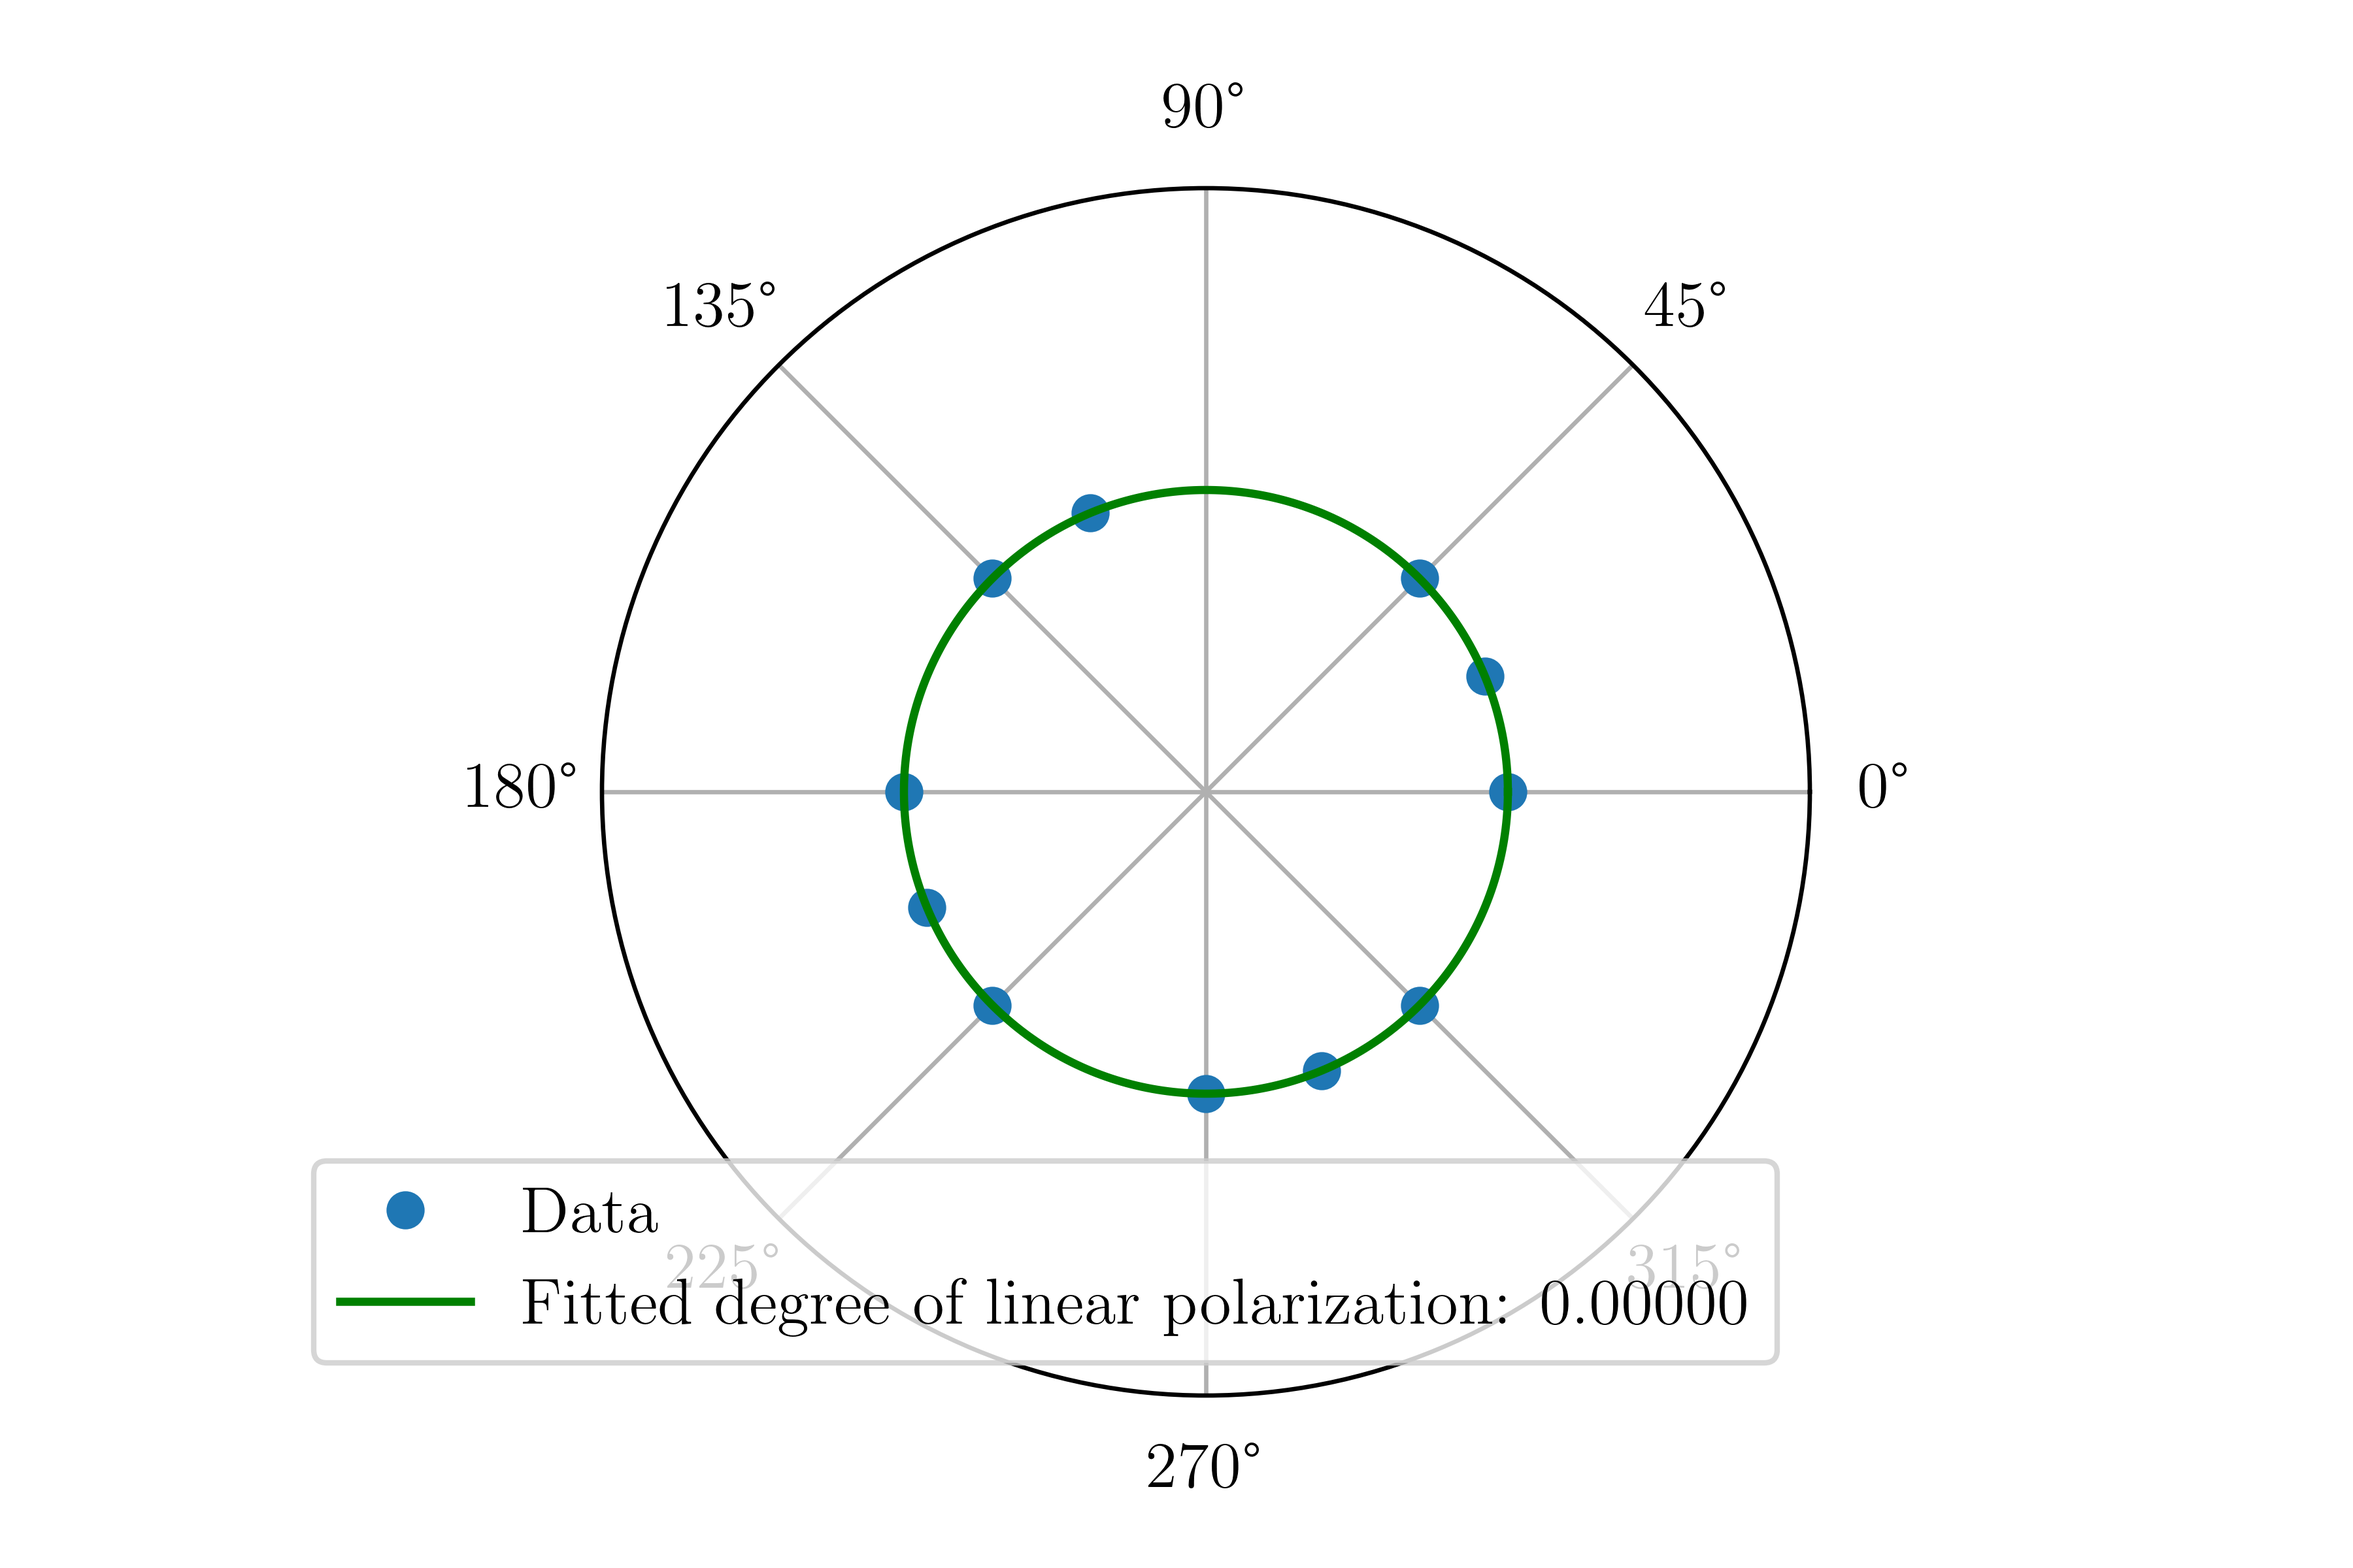
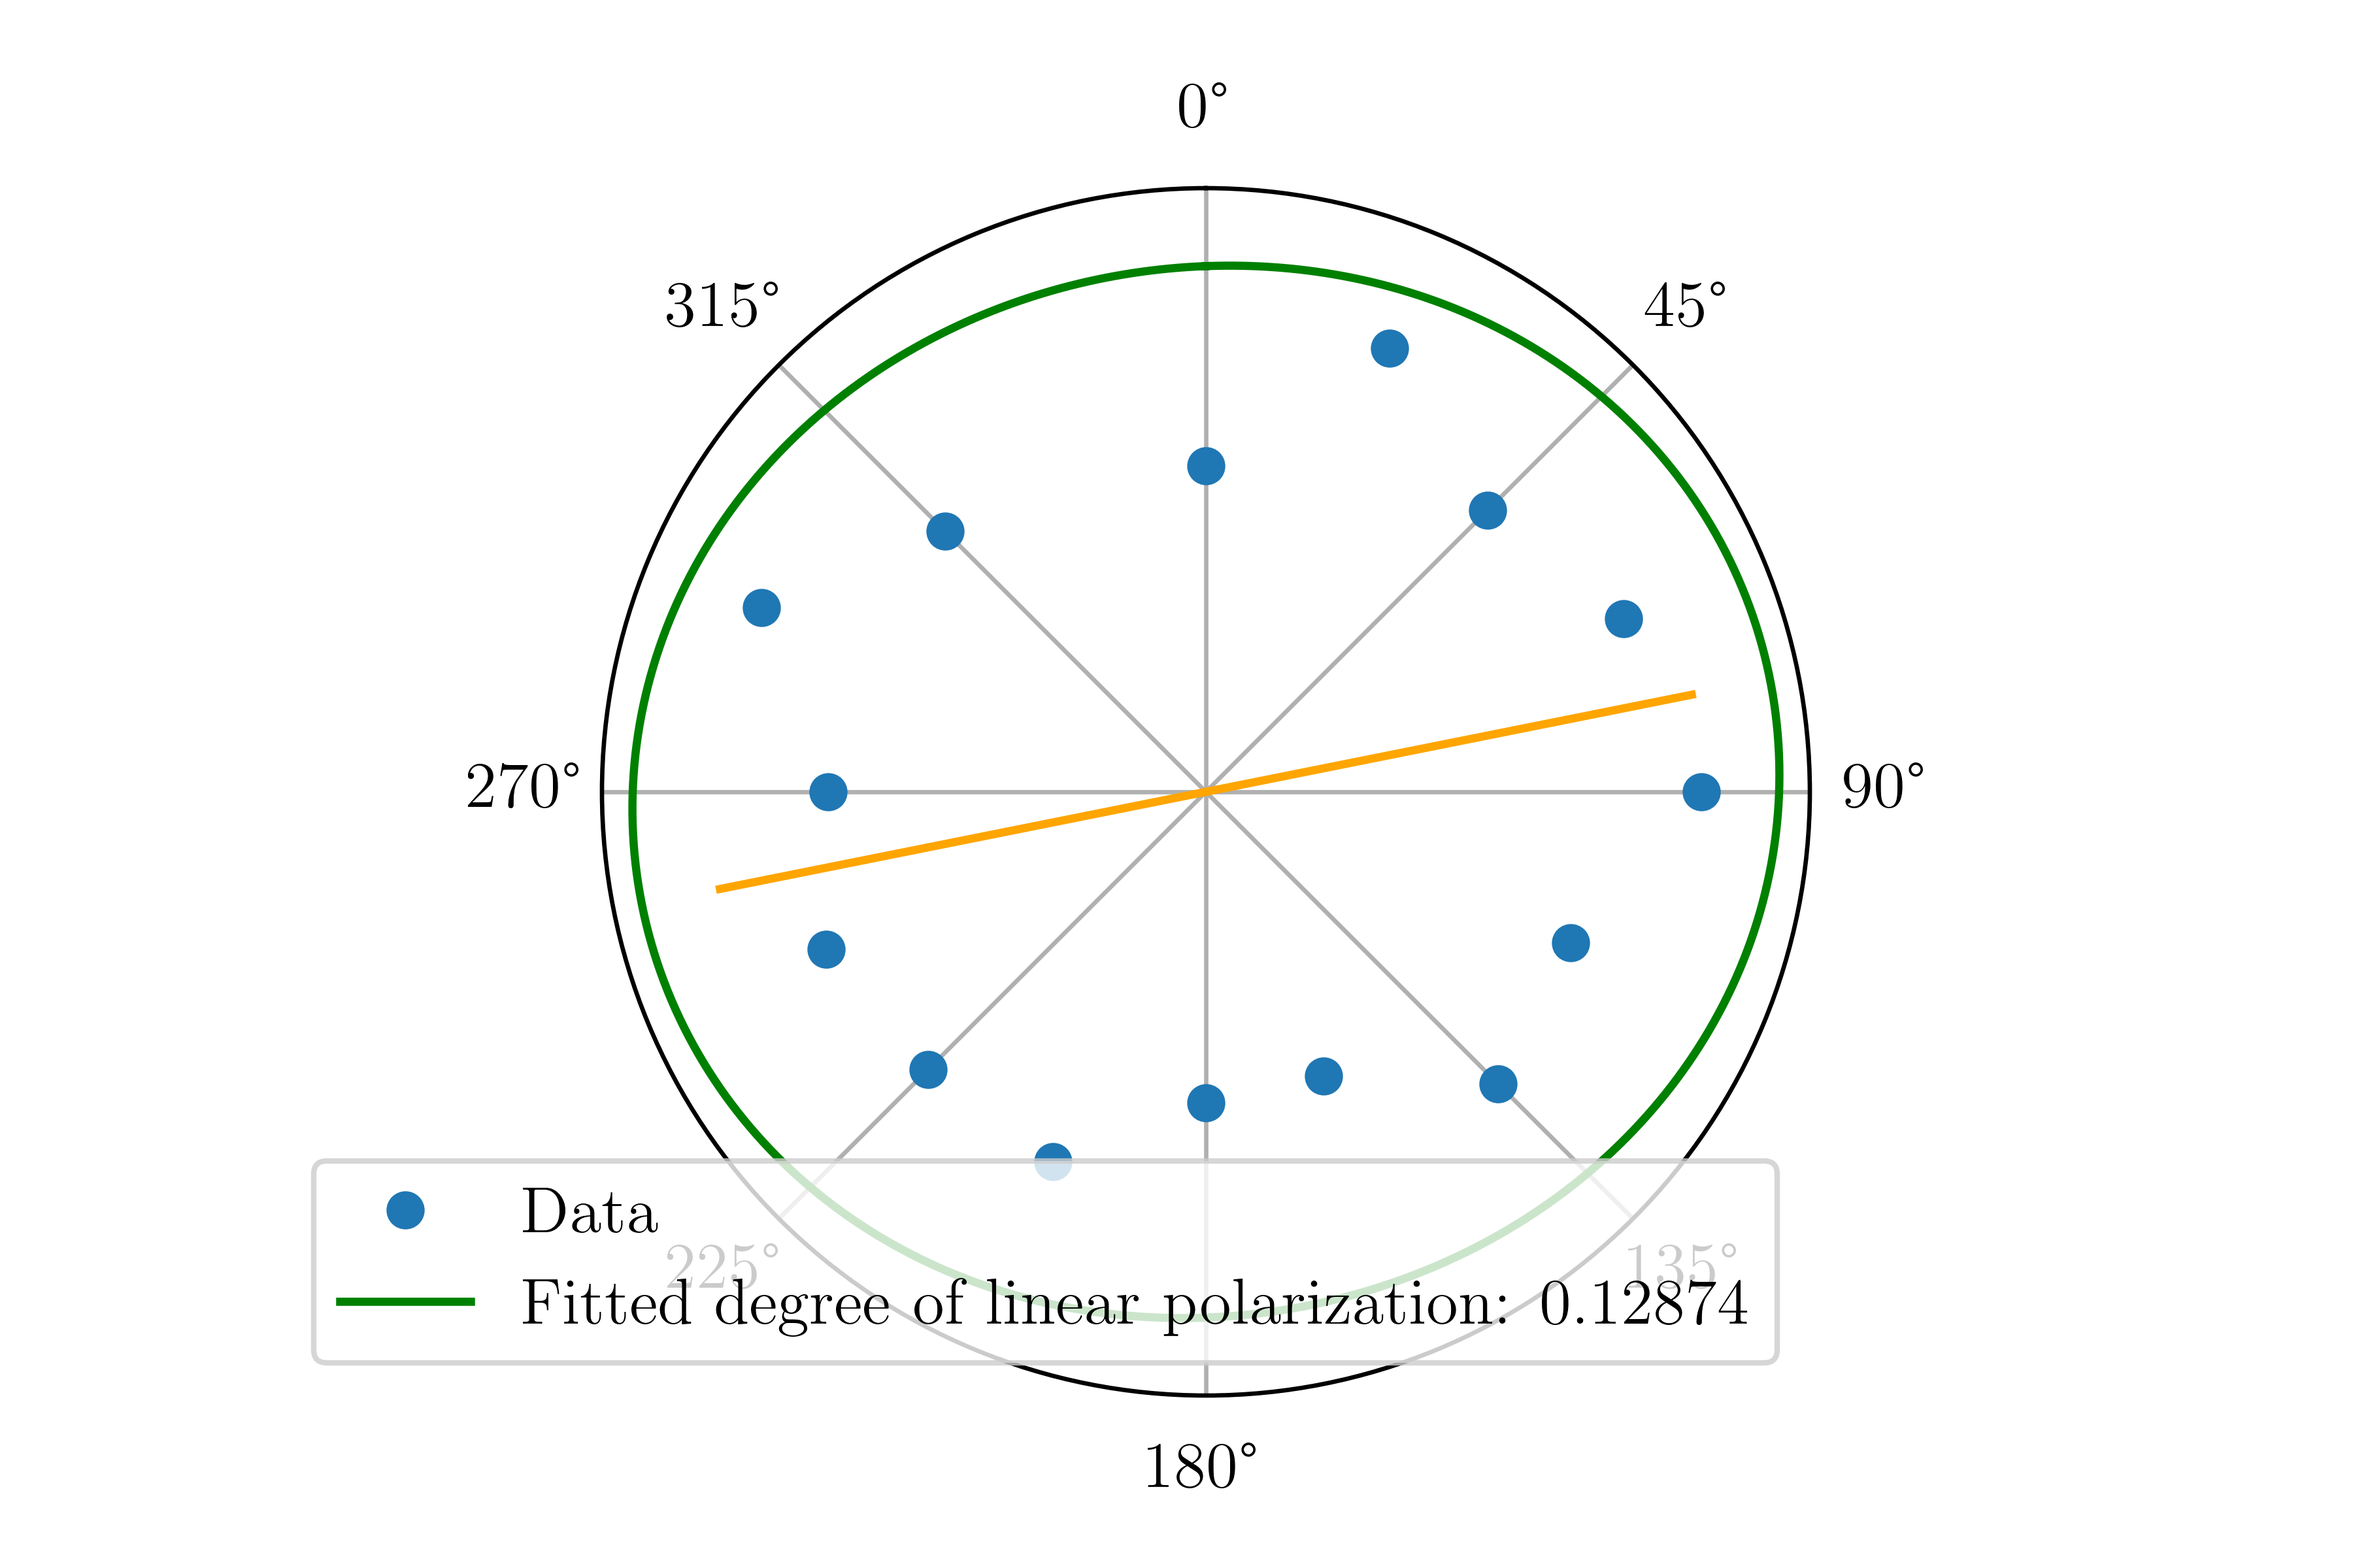
phi shift

diff --git a/extract_dates.py b/extract_dates.py
@@ -1,0 +1,26 @@
+import h5py
+import os
+
+def extract_start_end_times(file_path):
+    try:
+        with h5py.File(file_path, 'r') as f:
+            start_time = f['scan/start_time'][()]
+            end_time = f['scan/end_time'][()]
+            print(f"\nFile: {file_path}")
+            print(f"Start Time: {start_time}")
+            print(f"End Time: {end_time}")
+    except KeyError as e:
+        print(f"Key not found in file {file_path}: {e}")
+    except Exception as e:
+        print(f"Error reading file {file_path}: {e}")
+
+def main():
+    data_dir = "data"
+    files = [f for f in os.listdir(data_dir) if f.endswith('.nxs')]
+
+    for file in files:
+        file_path = os.path.join(data_dir, file)
+        extract_start_end_times(file_path)
+
+if __name__ == "__main__":
+    main()
